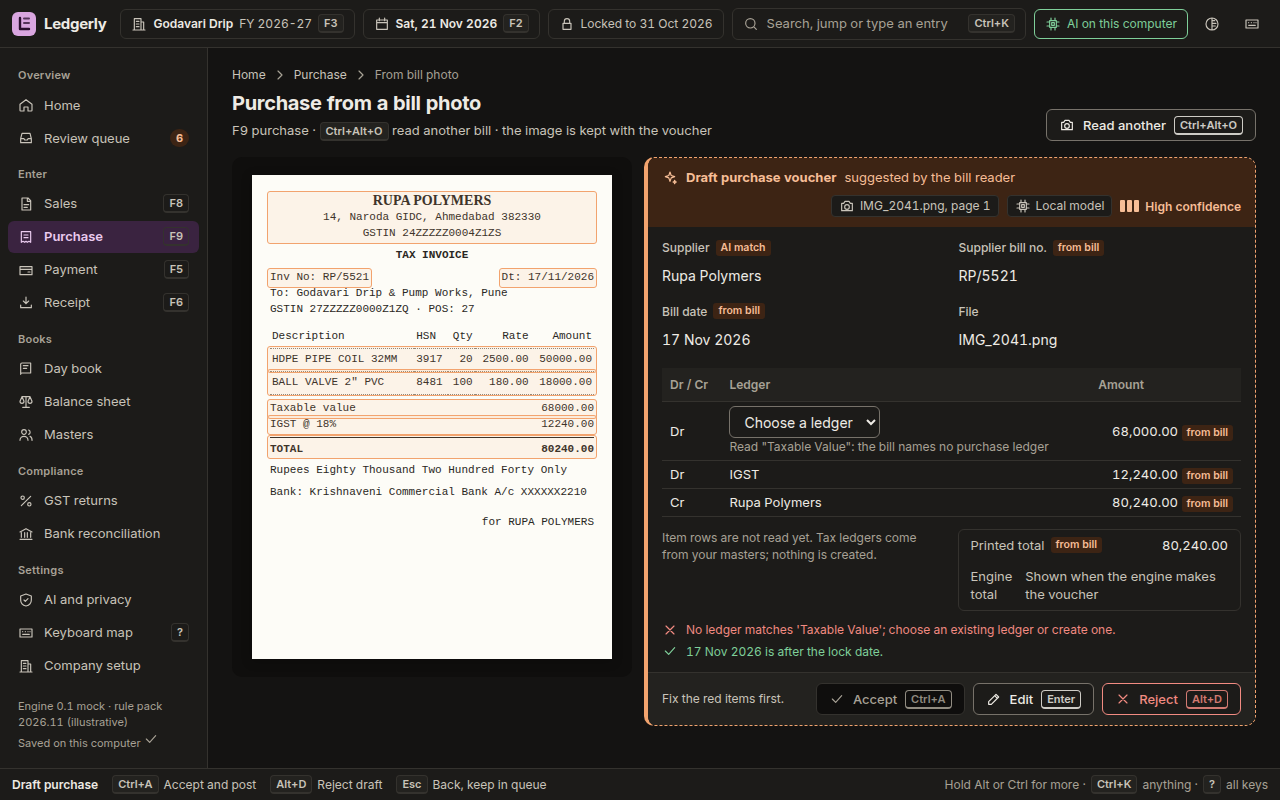
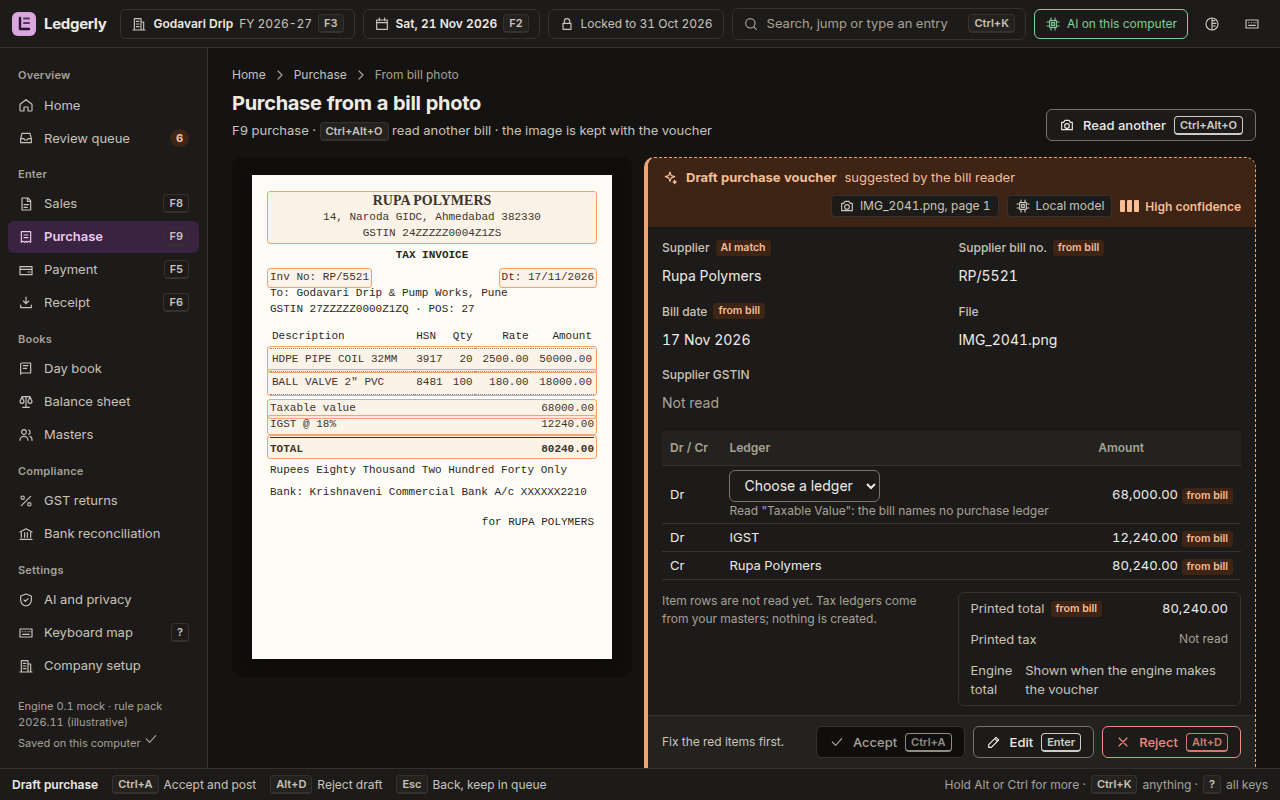
S23: regenerate mock captures and COMPARE.md after rebasing onto integration 5d2561dc

Changed region(s): [[0.5, 0.4375, 0.9688, 0.9688], [0.5, 0.9062, 0.625, 0.9375], [0.8438, 0.4688, 0.9062, 0.5]]

diff --git a/design/mock-v2/captures/CATALOG.md b/design/mock-v2/captures/CATALOG.md
@@ -3,7 +3,7 @@
 Generated by `node capture.mjs` from `index.html`, `states.json` and `transitions.json`. Do not
 edit by hand. Run `node capture.mjs --check` to see whether the captures match the mock.
 
-200 states and 15 transitions in 3 themes: 831 images, 0 capture errors. Source sha256 `7b3621ebe918`.
+204 states and 15 transitions in 3 themes: 843 images, 0 capture errors. Source sha256 `b81e110666a4`.
 
 ## Screens
 
@@ -26,7 +26,10 @@ edit by hand. Run `node capture.mjs --check` to see whether the captures match t
 | State | Kind | Light | Dark | High contrast |
 |---|---|---|---|---|
 | **Review queue, AI on (later release)**<br>`ai.review.default`<br>The queue with the assistant on: a bill-photo draft beside the bank matches. Its amount is the engine's total of the draft; a draft the engine blocks shows none. | happy | [<img src="states/light/ai.review.default.webp" width="240" alt="Review queue, AI on (later release), Light">](states/light/ai.review.default.webp) | [<img src="states/dark/ai.review.default.webp" width="240" alt="Review queue, AI on (later release), Dark">](states/dark/ai.review.default.webp) | [<img src="states/hc/ai.review.default.webp" width="240" alt="Review queue, AI on (later release), High contrast">](states/hc/ai.review.default.webp) |
-| **AI and privacy, local (later release)**<br>`ai.ai-settings.local`<br>On this computer: the model file the user chose (none yet), the runtime not in this build, what each feature sees, and the AI activity log. | happy | [<img src="states/light/ai.ai-settings.local.webp" width="240" alt="AI and privacy, local (later release), Light">](states/light/ai.ai-settings.local.webp) | [<img src="states/dark/ai.ai-settings.local.webp" width="240" alt="AI and privacy, local (later release), Dark">](states/dark/ai.ai-settings.local.webp) | [<img src="states/hc/ai.ai-settings.local.webp" width="240" alt="AI and privacy, local (later release), High contrast">](states/hc/ai.ai-settings.local.webp) |
+| **AI and privacy, local (later release)**<br>`ai.ai-settings.local`<br>On this computer: the model file the user chose (none yet), the OCR reader not installed with its download button (nothing is fetched until it is pressed), what each feature sees, and the AI activity log. | happy | [<img src="states/light/ai.ai-settings.local.webp" width="240" alt="AI and privacy, local (later release), Light">](states/light/ai.ai-settings.local.webp) | [<img src="states/dark/ai.ai-settings.local.webp" width="240" alt="AI and privacy, local (later release), Dark">](states/dark/ai.ai-settings.local.webp) | [<img src="states/hc/ai.ai-settings.local.webp" width="240" alt="AI and privacy, local (later release), High contrast">](states/hc/ai.ai-settings.local.webp) |
+| **AI and privacy, OCR models downloading (later release)**<br>`ai.ai-settings.local-downloading`<br>After the person presses Download the OCR models: the two ocrs model files come from the fixed URLs, off the screen's thread. Nothing else is sent, and bills cannot be read until both files are here. | loading | [<img src="states/light/ai.ai-settings.local-downloading.webp" width="240" alt="AI and privacy, OCR models downloading (later release), Light">](states/light/ai.ai-settings.local-downloading.webp) | [<img src="states/dark/ai.ai-settings.local-downloading.webp" width="240" alt="AI and privacy, OCR models downloading (later release), Dark">](states/dark/ai.ai-settings.local-downloading.webp) | [<img src="states/hc/ai.ai-settings.local-downloading.webp" width="240" alt="AI and privacy, OCR models downloading (later release), High contrast">](states/hc/ai.ai-settings.local-downloading.webp) |
+| **AI and privacy, OCR reader ready (later release)**<br>`ai.ai-settings.local-ready`<br>Both ocrs model files are here and load: bills are read on this computer, every value needing review. | happy | [<img src="states/light/ai.ai-settings.local-ready.webp" width="240" alt="AI and privacy, OCR reader ready (later release), Light">](states/light/ai.ai-settings.local-ready.webp) | [<img src="states/dark/ai.ai-settings.local-ready.webp" width="240" alt="AI and privacy, OCR reader ready (later release), Dark">](states/dark/ai.ai-settings.local-ready.webp) | [<img src="states/hc/ai.ai-settings.local-ready.webp" width="240" alt="AI and privacy, OCR reader ready (later release), High contrast">](states/hc/ai.ai-settings.local-ready.webp) |
+| **AI and privacy, OCR download refused (later release)**<br>`ai.ai-settings.local-download-failed`<br>A downloaded file whose SHA-256 is not the recorded one is not kept; the reader stays not installed and the button offers the download again. | error | [<img src="states/light/ai.ai-settings.local-download-failed.webp" width="240" alt="AI and privacy, OCR download refused (later release), Light">](states/light/ai.ai-settings.local-download-failed.webp) | [<img src="states/dark/ai.ai-settings.local-download-failed.webp" width="240" alt="AI and privacy, OCR download refused (later release), Dark">](states/dark/ai.ai-settings.local-download-failed.webp) | [<img src="states/hc/ai.ai-settings.local-download-failed.webp" width="240" alt="AI and privacy, OCR download refused (later release), High contrast">](states/hc/ai.ai-settings.local-download-failed.webp) |
 | **AI and privacy, cloud key (later release)**<br>`ai.ai-settings.cloud`<br>Cloud with your own key: the provider as the user described it, the key in the system keychain, redaction, and a confirmation before each document. | happy | [<img src="states/light/ai.ai-settings.cloud.webp" width="240" alt="AI and privacy, cloud key (later release), Light">](states/light/ai.ai-settings.cloud.webp) | [<img src="states/dark/ai.ai-settings.cloud.webp" width="240" alt="AI and privacy, cloud key (later release), Dark">](states/dark/ai.ai-settings.cloud.webp) | [<img src="states/hc/ai.ai-settings.cloud.webp" width="240" alt="AI and privacy, cloud key (later release), High contrast">](states/hc/ai.ai-settings.cloud.webp) |
 | **AI and privacy, change provider or key (later release)**<br>`ai.ai-settings.cloud-edit`<br>Ctrl+Enter on the cloud panel: the request format (Messages for the Anthropic API, or an OpenAI-compatible chat base URL), the endpoint and a model per feature as fields, the key in a masked field that is never filled back. Ctrl+A saves the key to the system keychain only; Alt+D deletes it; saving opens no connection. | happy | [<img src="states/light/ai.ai-settings.cloud-edit.webp" width="240" alt="AI and privacy, change provider or key (later release), Light">](states/light/ai.ai-settings.cloud-edit.webp) | [<img src="states/dark/ai.ai-settings.cloud-edit.webp" width="240" alt="AI and privacy, change provider or key (later release), Dark">](states/dark/ai.ai-settings.cloud-edit.webp) | [<img src="states/hc/ai.ai-settings.cloud-edit.webp" width="240" alt="AI and privacy, change provider or key (later release), High contrast">](states/hc/ai.ai-settings.cloud-edit.webp) |
 | **Plain-words entry, draft payment (later release)**<br>`ai.quick-entry.proposal`<br>The sentence read through the assistant: Rent and the Saptagiri account resolved from the words, 25k copied from them, the date offered as today, the engine's balance check. | happy | [<img src="states/light/ai.quick-entry.proposal.webp" width="240" alt="Plain-words entry, draft payment (later release), Light">](states/light/ai.quick-entry.proposal.webp) | [<img src="states/dark/ai.quick-entry.proposal.webp" width="240" alt="Plain-words entry, draft payment (later release), Dark">](states/dark/ai.quick-entry.proposal.webp) | [<img src="states/hc/ai.quick-entry.proposal.webp" width="240" alt="Plain-words entry, draft payment (later release), High contrast">](states/hc/ai.quick-entry.proposal.webp) |
@@ -45,6 +48,7 @@ edit by hand. Run `node capture.mjs --check` to see whether the captures match t
 | **Bill photo, choose a file (later release)**<br>`ai.purchase-bill.choose`<br>Ctrl+Alt+O: the path of a bill photo (PNG or JPEG) or PDF is typed; Enter reads it on this computer. Nothing is read or kept until then. | empty | [<img src="states/light/ai.purchase-bill.choose.webp" width="240" alt="Bill photo, choose a file (later release), Light">](states/light/ai.purchase-bill.choose.webp) | [<img src="states/dark/ai.purchase-bill.choose.webp" width="240" alt="Bill photo, choose a file (later release), Dark">](states/dark/ai.purchase-bill.choose.webp) | [<img src="states/hc/ai.purchase-bill.choose.webp" width="240" alt="Bill photo, choose a file (later release), High contrast">](states/hc/ai.purchase-bill.choose.webp) |
 | **Bill photo, reading (later release)**<br>`ai.purchase-bill.reading`<br>A bill photo is being read on this computer; the image never leaves the machine. | loading | [<img src="states/light/ai.purchase-bill.reading.webp" width="240" alt="Bill photo, reading (later release), Light">](states/light/ai.purchase-bill.reading.webp) | [<img src="states/dark/ai.purchase-bill.reading.webp" width="240" alt="Bill photo, reading (later release), Dark">](states/dark/ai.purchase-bill.reading.webp) | [<img src="states/hc/ai.purchase-bill.reading.webp" width="240" alt="Bill photo, reading (later release), High contrast">](states/hc/ai.purchase-bill.reading.webp) |
 | **Bill photo, choose the purchase ledger (later release)**<br>`ai.purchase-bill.ledger-lines`<br>What the bill reader reads today: the printed supplier, bill number, date, taxable value, tax and total, drafted as ledger lines with a box on the image for each. The taxable value names no purchase ledger, so the person chooses one; the engine checks the draft after every choice and its verdict is the check line. Item rows are not read yet. | validation-error | [<img src="states/light/ai.purchase-bill.ledger-lines.webp" width="240" alt="Bill photo, choose the purchase ledger (later release), Light">](states/light/ai.purchase-bill.ledger-lines.webp) | [<img src="states/dark/ai.purchase-bill.ledger-lines.webp" width="240" alt="Bill photo, choose the purchase ledger (later release), Dark">](states/dark/ai.purchase-bill.ledger-lines.webp) | [<img src="states/hc/ai.purchase-bill.ledger-lines.webp" width="240" alt="Bill photo, choose the purchase ledger (later release), High contrast">](states/hc/ai.purchase-bill.ledger-lines.webp) |
+| **Bill photo, values to confirm (later release)**<br>`ai.purchase-bill.needs-review`<br>Read on this computer by the OCR reader, which gives no confidence: every value it read needs review. Each value shows Needs review and a Confirm button until the person checks it against the photo (the open taxable line's ledger is confirmed by choosing it); the draft cannot be accepted while any is unconfirmed. Confirmations are logged as human edits. | low-confidence | [<img src="states/light/ai.purchase-bill.needs-review.webp" width="240" alt="Bill photo, values to confirm (later release), Light">](states/light/ai.purchase-bill.needs-review.webp) | [<img src="states/dark/ai.purchase-bill.needs-review.webp" width="240" alt="Bill photo, values to confirm (later release), Dark">](states/dark/ai.purchase-bill.needs-review.webp) | [<img src="states/hc/ai.purchase-bill.needs-review.webp" width="240" alt="Bill photo, values to confirm (later release), High contrast">](states/hc/ai.purchase-bill.needs-review.webp) |
 | **Bill photo, draft rejected (later release)**<br>`ai.purchase-bill.rejected`<br>Alt+D: the draft is rejected and nothing is posted; the rejection is in the AI activity log. Another bill can be read, or the bill typed. | empty | [<img src="states/light/ai.purchase-bill.rejected.webp" width="240" alt="Bill photo, draft rejected (later release), Light">](states/light/ai.purchase-bill.rejected.webp) | [<img src="states/dark/ai.purchase-bill.rejected.webp" width="240" alt="Bill photo, draft rejected (later release), Dark">](states/dark/ai.purchase-bill.rejected.webp) | [<img src="states/hc/ai.purchase-bill.rejected.webp" width="240" alt="Bill photo, draft rejected (later release), High contrast">](states/hc/ai.purchase-bill.rejected.webp) |
 | **Bill photo, unreadable file (later release)**<br>`ai.purchase-bill.error`<br>The file is a PDF, which this build does not read (PNG photos only); the error says what failed and what to do. | error | [<img src="states/light/ai.purchase-bill.error.webp" width="240" alt="Bill photo, unreadable file (later release), Light">](states/light/ai.purchase-bill.error.webp) | [<img src="states/dark/ai.purchase-bill.error.webp" width="240" alt="Bill photo, unreadable file (later release), Dark">](states/dark/ai.purchase-bill.error.webp) | [<img src="states/hc/ai.purchase-bill.error.webp" width="240" alt="Bill photo, unreadable file (later release), High contrast">](states/hc/ai.purchase-bill.error.webp) |
 

diff --git a/design/COMPARE.md b/design/COMPARE.md
@@ -47,6 +47,7 @@
 | hc | ai.review.default | 0.5500 |
 | hc | hi.bank.default | 0.5516 |
 | light | import.file-transactions | 0.5518 |
+| hc | gst.gstr3b | 0.5523 |
 | light | import.file-masters | 0.5534 |
 | hc | profit-and-loss.print-range-error | 0.5536 |
 | dark | profit-and-loss.print-range-error | 0.5546 |
@@ -63,7 +64,6 @@
 | hc | profit-and-loss.print-preview | 0.5660 |
 | dark | hi.import.file-transactions | 0.5661 |
 | dark | import.file-error | 0.5672 |
-| hc | gst.gstr3b | 0.5677 |
 | hc | masters.ledgers | 0.5690 |
 | dark | import.file-imported | 0.5702 |
 | hc | ai.purchase-bill.ledger-lines | 0.5746 |
@@ -112,6 +112,7 @@
 | light | hi.import.file-overwritten | 0.5998 |
 | hc | masters.items | 0.6005 |
 | light | ai.ai-settings.local-downloading | 0.6006 |
+| light | gst.gstr3b | 0.6008 |
 | hc | ai.ai-settings.cloud-edit | 0.6014 |
 | light | ai.ai-settings.local-ready | 0.6017 |
 | light | ai.review.default | 0.6018 |
@@ -130,6 +131,7 @@
 | dark | hi.import.file-imported | 0.6080 |
 | dark | sales-invoice.save-confirm | 0.6087 |
 | light | home.nudge-open | 0.6088 |
+| dark | gst.gstr3b | 0.6089 |
 | dark | hi.import.file-error | 0.6091 |
 | light | day-book.month | 0.6095 |
 | light | sales-invoice.period-locked | 0.6098 |
@@ -158,7 +160,6 @@
 | dark | ai.purchase-bill.ledger-lines | 0.6222 |
 | hc | sales-invoice.print-preview | 0.6223 |
 | hc | hi.sales-invoice.default | 0.6231 |
-| light | gst.gstr3b | 0.6246 |
 | light | hi.import.file-missing-choice | 0.6246 |
 | light | sales-invoice.gst-inter-state | 0.6249 |
 | hc | day-book.print-preview | 0.6252 |
@@ -166,7 +167,6 @@
 | hc | hi.home.default | 0.6256 |
 | dark | masters.ledgers | 0.6260 |
 | dark | ai.quick-entry.proposal | 0.6265 |
-| dark | gst.gstr3b | 0.6266 |
 | dark | sales-invoice.print-preview | 0.6267 |
 | dark | day-book.print-preview | 0.6278 |
 | dark | sales-invoice.period-locked | 0.6287 |
@@ -455,6 +455,7 @@
 | light | audit.integrity | 0.8111 |
 | light | stock-summary.loading | 0.8133 |
 | light | masters.create-item | 0.8136 |
+| hc | gst.gstr3b-unsupported | 0.8142 |
 | light | outstanding.loading | 0.8143 |
 | light | trial-balance.loading | 0.8151 |
 | dark | profit-and-loss.loading | 0.8154 |
@@ -487,7 +488,6 @@
 | dark | trial-balance.loading | 0.8310 |
 | light | setup.ai | 0.8337 |
 | dark | setup.ai | 0.8359 |
-| hc | gst.gstr3b-unsupported | 0.8361 |
 | dark | gst.recon-error | 0.8364 |
 | light | setup.welcome | 0.8369 |
 | dark | ai.purchase-bill.error | 0.8381 |
@@ -495,6 +495,8 @@
 | dark | setup.keyboard | 0.8387 |
 | light | bank-chooser.default | 0.8396 |
 | hc | start.recent | 0.8397 |
+| dark | gst.gstr3b-unsupported | 0.8403 |
+| light | gst.gstr3b-unsupported | 0.8405 |
 | hc | setup.rail | 0.8409 |
 | dark | bank-chooser.default | 0.8410 |
 | light | ai.purchase-bill.error | 0.8412 |
@@ -504,8 +506,6 @@
 | hc | gst.gstr3b-not-loaded | 0.8446 |
 | light | hi.setup.welcome | 0.8448 |
 | dark | hi.setup.welcome | 0.8490 |
-| dark | gst.gstr3b-unsupported | 0.8494 |
-| light | gst.gstr3b-unsupported | 0.8529 |
 | light | gst.gstr1-not-loaded | 0.8554 |
 | light | gst.gstr3b-not-loaded | 0.8558 |
 | dark | gst.gstr1-not-loaded | 0.8567 |
@@ -1034,6 +1034,18 @@ SSIM 0.5518
 </tr>
 </table>
 
+## hc / gst.gstr3b
+
+SSIM 0.5523
+
+<table>
+<tr><th>Mock</th><th>App</th></tr>
+<tr>
+<td><img src="mock-v2/captures/states/hc/gst.gstr3b.webp" width="480" alt="mock hc gst.gstr3b"></td>
+<td><img src="app-captures/hc/gst.gstr3b.webp" width="480" alt="app hc gst.gstr3b"></td>
+</tr>
+</table>
+
 ## light / import.file-masters
 
 SSIM 0.5534
@@ -1223,18 +1235,6 @@ SSIM 0.5672
 <tr>
 <td><img src="mock-v2/captures/states/dark/import.file-error.webp" width="480" alt="mock dark import.file-error"></td>
 <td><img src="app-captures/dark/import.file-error.webp" width="480" alt="app dark import.file-error"></td>
-</tr>
-</table>
-
-## hc / gst.gstr3b
-
-SSIM 0.5677
-
-<table>
-<tr><th>Mock</th><th>App</th></tr>
-<tr>
-<td><img src="mock-v2/captures/states/hc/gst.gstr3b.webp" width="480" alt="mock hc gst.gstr3b"></td>
-<td><img src="app-captures/hc/gst.gstr3b.webp" width="480" alt="app hc gst.gstr3b"></td>
 </tr>
 </table>
 
@@ -1814,6 +1814,18 @@ SSIM 0.6006
 </tr>
 </table>
 
+## light / gst.gstr3b
+
+SSIM 0.6008
+
+<table>
+<tr><th>Mock</th><th>App</th></tr>
+<tr>
+<td><img src="mock-v2/captures/states/light/gst.gstr3b.webp" width="480" alt="mock light gst.gstr3b"></td>
+<td><img src="app-captures/light/gst.gstr3b.webp" width="480" alt="app light gst.gstr3b"></td>
+</tr>
+</table>
+
 ## hc / ai.ai-settings.cloud-edit
 
 SSIM 0.6014
@@ -2027,6 +2039,18 @@ SSIM 0.6088
 <tr>
 <td><img src="mock-v2/captures/states/light/home.nudge-open.webp" width="480" alt="mock light home.nudge-open"></td>
 <td><img src="app-captures/light/home.nudge-open.webp" width="480" alt="app light home.nudge-open"></td>
+</tr>
+</table>
+
+## dark / gst.gstr3b
+
+SSIM 0.6089
+
+<table>
+<tr><th>Mock</th><th>App</th></tr>
+<tr>
+<td><img src="mock-v2/captures/states/dark/gst.gstr3b.webp" width="480" alt="mock dark gst.gstr3b"></td>
+<td><img src="app-captures/dark/gst.gstr3b.webp" width="480" alt="app dark gst.gstr3b"></td>
 </tr>
 </table>
 
@@ -2366,18 +2390,6 @@ SSIM 0.6231
 </tr>
 </table>
 
-## light / gst.gstr3b
-
-SSIM 0.6246
-
-<table>
-<tr><th>Mock</th><th>App</th></tr>
-<tr>
-<td><img src="mock-v2/captures/states/light/gst.gstr3b.webp" width="480" alt="mock light gst.gstr3b"></td>
-<td><img src="app-captures/light/gst.gstr3b.webp" width="480" alt="app light gst.gstr3b"></td>
-</tr>
-</table>
-
 ## light / hi.import.file-missing-choice
 
 SSIM 0.6246
@@ -2459,18 +2471,6 @@ SSIM 0.6265
 <tr>
 <td><img src="mock-v2/captures/states/dark/ai.quick-entry.proposal.webp" width="480" alt="mock dark ai.quick-entry.proposal"></td>
 <td><img src="app-captures/dark/ai.quick-entry.proposal.webp" width="480" alt="app dark ai.quick-entry.proposal"></td>
-</tr>
-</table>
-
-## dark / gst.gstr3b
-
-SSIM 0.6266
-
-<table>
-<tr><th>Mock</th><th>App</th></tr>
-<tr>
-<td><img src="mock-v2/captures/states/dark/gst.gstr3b.webp" width="480" alt="mock dark gst.gstr3b"></td>
-<td><img src="app-captures/dark/gst.gstr3b.webp" width="480" alt="app dark gst.gstr3b"></td>
 </tr>
 </table>
 
@@ -5930,6 +5930,18 @@ SSIM 0.8136
 </tr>
 </table>
 
+## hc / gst.gstr3b-unsupported
+
+SSIM 0.8142
+
+<table>
+<tr><th>Mock</th><th>App</th></tr>
+<tr>
+<td><img src="mock-v2/captures/states/hc/gst.gstr3b-unsupported.webp" width="480" alt="mock hc gst.gstr3b-unsupported"></td>
+<td><img src="app-captures/hc/gst.gstr3b-unsupported.webp" width="480" alt="app hc gst.gstr3b-unsupported"></td>
+</tr>
+</table>
+
 ## light / outstanding.loading
 
 SSIM 0.8143
@@ -6314,18 +6326,6 @@ SSIM 0.8359
 </tr>
 </table>
 
-## hc / gst.gstr3b-unsupported
-
-SSIM 0.8361
-
-<table>
-<tr><th>Mock</th><th>App</th></tr>
-<tr>
-<td><img src="mock-v2/captures/states/hc/gst.gstr3b-unsupported.webp" width="480" alt="mock hc gst.gstr3b-unsupported"></td>
-<td><img src="app-captures/hc/gst.gstr3b-unsupported.webp" width="480" alt="app hc gst.gstr3b-unsupported"></td>
-</tr>
-</table>
-
 ## dark / gst.recon-error
 
 SSIM 0.8364
@@ -6407,6 +6407,30 @@ SSIM 0.8397
 <tr>
 <td><img src="mock-v2/captures/states/hc/start.recent.webp" width="480" alt="mock hc start.recent"></td>
 <td><img src="app-captures/hc/start.recent.webp" width="480" alt="app hc start.recent"></td>
+</tr>
+</table>
+
+## dark / gst.gstr3b-unsupported
+
+SSIM 0.8403
+
+<table>
+<tr><th>Mock</th><th>App</th></tr>
+<tr>
+<td><img src="mock-v2/captures/states/dark/gst.gstr3b-unsupported.webp" width="480" alt="mock dark gst.gstr3b-unsupported"></td>
+<td><img src="app-captures/dark/gst.gstr3b-unsupported.webp" width="480" alt="app dark gst.gstr3b-unsupported"></td>
+</tr>
+</table>
+
+## light / gst.gstr3b-unsupported
+
+SSIM 0.8405
+
+<table>
+<tr><th>Mock</th><th>App</th></tr>
+<tr>
+<td><img src="mock-v2/captures/states/light/gst.gstr3b-unsupported.webp" width="480" alt="mock light gst.gstr3b-unsupported"></td>
+<td><img src="app-captures/light/gst.gstr3b-unsupported.webp" width="480" alt="app light gst.gstr3b-unsupported"></td>
 </tr>
 </table>
 
@@ -6515,30 +6539,6 @@ SSIM 0.8490
 <tr>
 <td><img src="mock-v2/captures/states/dark/hi.setup.welcome.webp" width="480" alt="mock dark hi.setup.welcome"></td>
 <td><img src="app-captures/dark/hi.setup.welcome.webp" width="480" alt="app dark hi.setup.welcome"></td>
-</tr>
-</table>
-
-## dark / gst.gstr3b-unsupported
-
-SSIM 0.8494
-
-<table>
-<tr><th>Mock</th><th>App</th></tr>
-<tr>
-<td><img src="mock-v2/captures/states/dark/gst.gstr3b-unsupported.webp" width="480" alt="mock dark gst.gstr3b-unsupported"></td>
-<td><img src="app-captures/dark/gst.gstr3b-unsupported.webp" width="480" alt="app dark gst.gstr3b-unsupported"></td>
-</tr>
-</table>
-
-## light / gst.gstr3b-unsupported
-
-SSIM 0.8529
-
-<table>
-<tr><th>Mock</th><th>App</th></tr>
-<tr>
-<td><img src="mock-v2/captures/states/light/gst.gstr3b-unsupported.webp" width="480" alt="mock light gst.gstr3b-unsupported"></td>
-<td><img src="app-captures/light/gst.gstr3b-unsupported.webp" width="480" alt="app light gst.gstr3b-unsupported"></td>
 </tr>
 </table>
 
